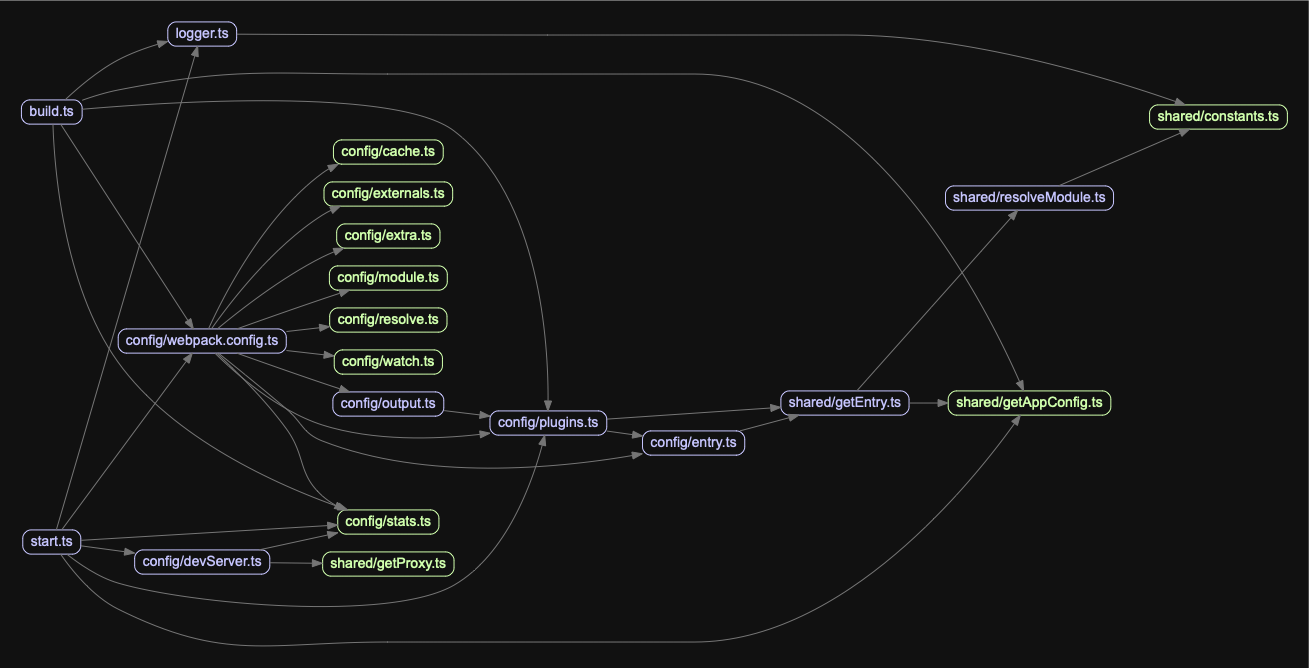
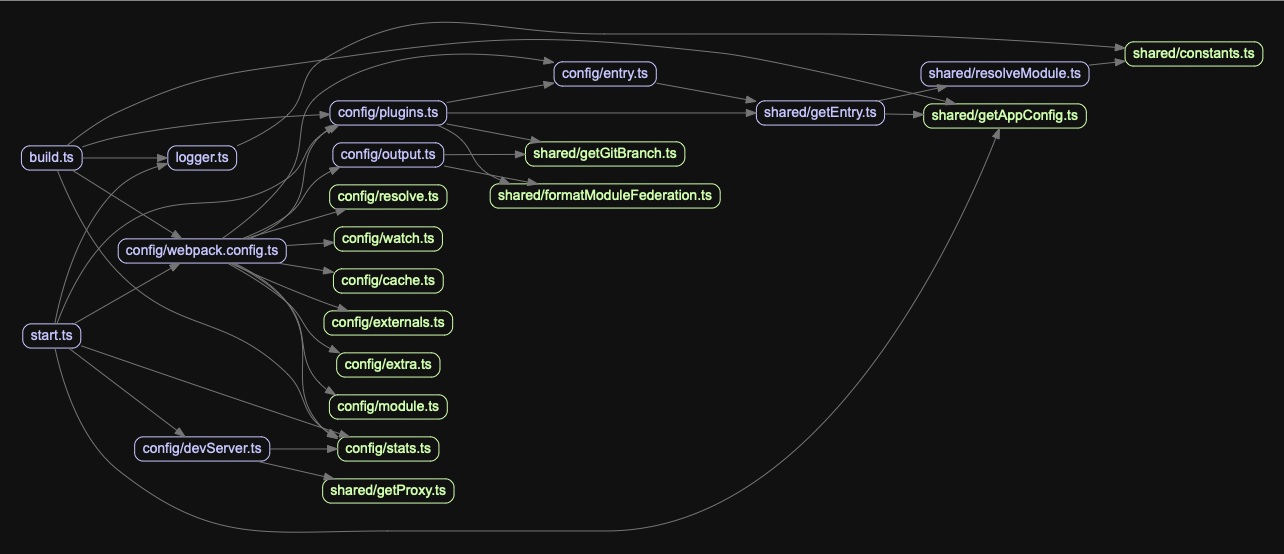
fix: output library

diff --git a/src/config/output.ts b/src/config/output.ts
@@ -1,12 +1,14 @@
 import { join } from 'path'
+import { getGitBranchVersion } from '../shared/getGitBranch'
 import { Configuration } from 'webpack/types'
-import { formatModuleFederationName } from './plugins'
+import { formatModuleFederationName } from '../shared/formatModuleFederation'
 import { getAppPath, getAppPkg } from '../utils'
 
 const appPath = getAppPath()
 const appPkg = getAppPkg(appPath)
 const appName = appPkg.name // appPkg.name.replace(/[@/-]/g, '_')
 const appVersion = appPkg.version
+const branchVersion = getGitBranchVersion(appPath)
 
 // const { ASSET_PATH } = process.env
 const config: Configuration = {
@@ -17,7 +19,7 @@ const config: Configuration = {
     chunkFilename: '[id]_[contenthash].async.js',
     // publicPath: ASSET_PATH || '/'
     publicPath: 'auto',
-    library: formatModuleFederationName(`${appName}/${appVersion}`)
+    library: formatModuleFederationName(`${appName}/${branchVersion || appVersion}`)
   }
 }
 

diff --git a/src/config/plugins.ts b/src/config/plugins.ts
@@ -13,7 +13,8 @@ import { getAppPath, getAppPkg, getAppRC } from '../utils'
 
 // 2022.3.17 支持多 webpack 配置实例
 import { getEntry } from '../shared/getEntry'
-import { getGitBranchVersion } from 'src/shared/getGitBranch'
+import { getGitBranchVersion } from '../shared/getGitBranch'
+import { formatModuleFederationName } from '../shared/formatModuleFederation'
 // const { PAGE } = process.env
 
 const WebpackBar = require('webpackbar')
@@ -22,8 +23,6 @@ const WebpackBar = require('webpackbar')
 // const cliProgressBar = new cliProgress.SingleBar({
 //   format: '[{bar}] {percentage}% | ETA: {eta}s | {value}/{total} | {message}'
 // }, cliProgress.Presets.legacy)
-
-export const formatModuleFederationName = (str: string) => str.replace(/[^a-zA-Z\d]/g, '_').replace(/^(\d)/, '_$1')
 
 const {
   NODE_ENV,

diff --git a/src/shared/getGitBranch.ts b/src/shared/getGitBranch.ts
@@ -8,7 +8,7 @@ export function hasGit (appPath = __dirname) {
 }
 
 /** 获取当前分支名称 */
-export function getGitBranch (appPath: string = __dirname) {
+export default function getGitBranch (appPath: string = __dirname) {
   if (!hasGit(appPath)) return undefined
   try {
     // ref: refs/heads/daily/0.0.1

diff --git a/src/shared/formatModuleFederation.ts b/src/shared/formatModuleFederation.ts
@@ -1,0 +1,1 @@
+export const formatModuleFederationName = (str: string) => str.replace(/[^a-zA-Z\d]/g, '_').replace(/^(\d)/, '_$1')
